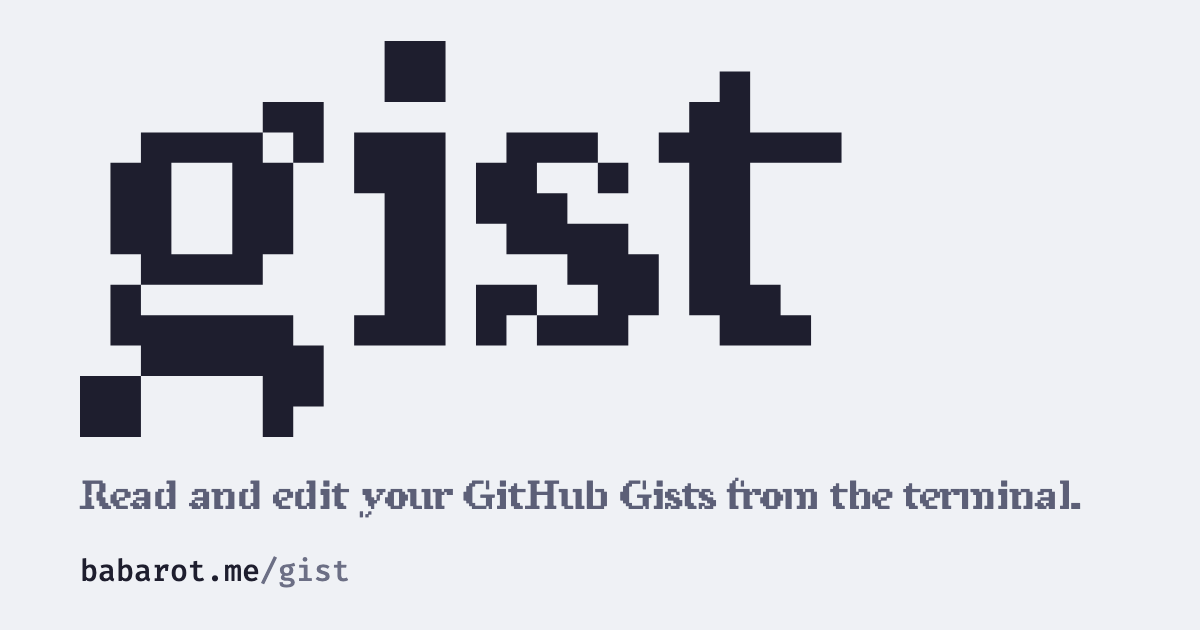
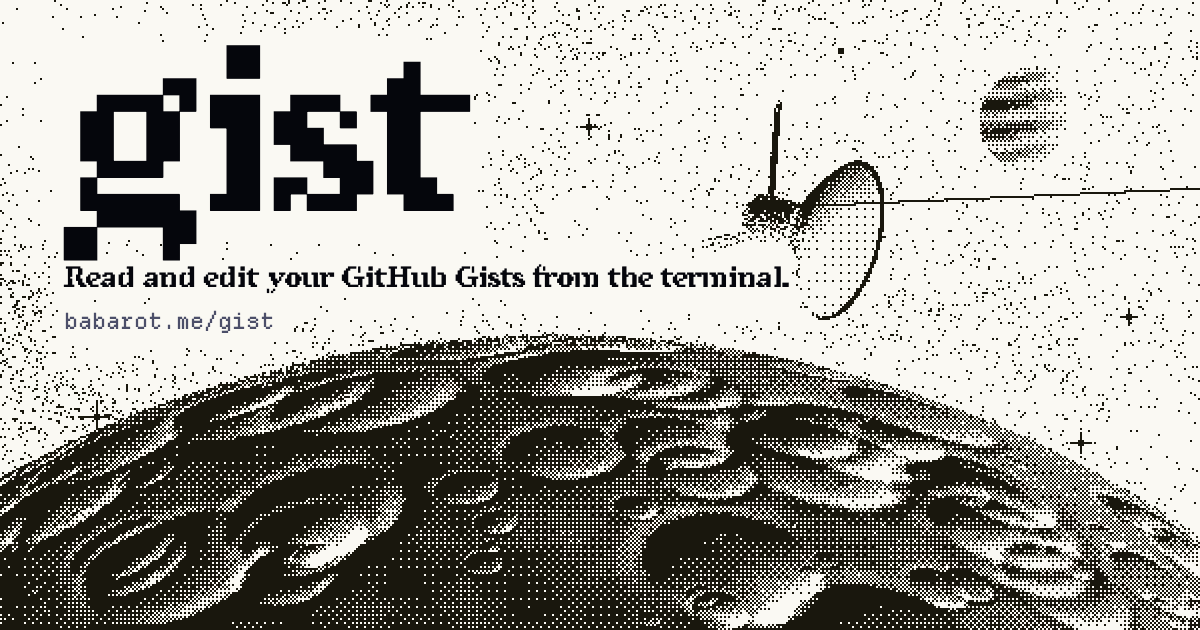
Draw the share image from the page's own moon and probe
scripts/ogimage/og.html now runs docs/space.js under the words, so that the
two stay the same picture. The URL is in Departure Mono, which leaves Fira Code
out of it.

diff --git a/scripts/ogimage/og.html b/scripts/ogimage/og.html
@@ -1,54 +1,35 @@
 <!DOCTYPE html>
 <!--
-  The share images of the page (og:image), 1200x630. scripts/ogimage.sh
-  takes a screenshot of each theme into docs/ogimage/THEME.png. ?v= picks
-  the theme: dark or light.
+  The share images of the page (og:image), 1200x630: its moon and probe, drawn
+  by docs/space.js, under its words. scripts/ogimage.sh takes a screenshot of
+  each theme into docs/ogimage/THEME.png. ?v= picks the theme: dark or light.
 -->
 <html lang="en">
 <head>
 <meta charset="UTF-8">
 <title>gist og:image</title>
-<link rel="stylesheet" href="https://fonts.googleapis.com/css2?family=Fira+Code:wght@500&display=swap">
 <style>
-@font-face { font-family: "Redaction 70"; font-weight: 700; src: url(https://cdn.jsdelivr.net/npm/@fontsource/redaction-70@5.3.0/files/redaction-70-latin-700-normal.woff2); }
-:root { --bg: #1e1e2e; --word: #e0e4f0; --text: #b0b8d1; --dim: #8888a4; --url: #e0e4f0; }
-:root[data-theme="light"] { --bg: #eff1f5; --word: #1e1e2e; --text: #5c5f77; --dim: #6c6f85; --url: #1e1e2e; }
+@font-face { font-family: "Redaction 70"; font-weight: 700; src: url(../../docs/fonts/redaction-70-700.woff2); }
+@font-face { font-family: "Departure Mono"; src: url(../../docs/fonts/departure-mono-400.woff2); }
+:root { --bg: #05060c; --word: #e6e8f2; --dim: #a4a7b8; }
+:root[data-theme="light"] { --bg: #eff1f5; --word: #05060c; --dim: #4c4f69; }
 html, body { margin: 0; width: 1200px; height: 630px; overflow: hidden; background: var(--bg); }
-.card { box-sizing: border-box; width: 1200px; height: 630px; padding: 0 80px; display: flex; flex-direction: column; justify-content: center; }
-p { margin: 34px 0 30px; color: var(--text); white-space: nowrap; font-family: "Redaction 70"; font-weight: 700; }
-.url { font: 500 30px "Fira Code", monospace; color: var(--dim); }
-.url b { font-weight: 500; color: var(--url); }
+#field { position: fixed; inset: 0; width: 1200px; height: 630px; }
+[data-theme="light"] #field { filter: invert(1); }
+header { position: relative; padding: 44px 64px; color: var(--word); }
+h1 { margin: 0; font: 700 236px/0.82 "Redaction 70", Georgia, serif; letter-spacing: -0.01em; }
+p { width: max-content; margin: 22px 0 10px; font: 700 29px/1.3 "Redaction 70", Georgia, serif; }
+nav { width: max-content; color: var(--dim); font: 22px "Departure Mono", ui-monospace, Menlo, monospace; }
 </style>
 </head>
 <body>
-<div class="card">
-  <canvas width="1040" height="400"></canvas>
+<canvas id="field"></canvas>
+<header>
+  <h1>gist</h1>
   <p>Read and edit your GitHub Gists from the terminal.</p>
-  <div class="url"><b>babarot.me</b>/gist</div>
-</div>
-<script>
-// The word is drawn on a canvas, to fit it by the ink of its letters and
-// not by the box of the font.
-document.documentElement.dataset.theme = new URLSearchParams(location.search).get('v') || 'dark';
-(async () => {
-  const font = size => `700 ${size}px "Redaction 70"`;
-  await document.fonts.load(font(200), 'gist Read');
-  await document.fonts.ready;
-  const style = getComputedStyle(document.documentElement);
-  const canvas = document.querySelector('canvas');
-  const ctx = canvas.getContext('2d');
-  ctx.font = font(200);
-  const m = ctx.measureText('gist');
-  const k = Math.min(1040 / (m.actualBoundingBoxLeft + m.actualBoundingBoxRight),
-    396 / (m.actualBoundingBoxAscent + m.actualBoundingBoxDescent));
-  canvas.height = Math.ceil((m.actualBoundingBoxAscent + m.actualBoundingBoxDescent) * k) + 4;
-  ctx.font = font(200 * k);
-  ctx.fillStyle = style.getPropertyValue('--word');
-  ctx.fillText('gist', m.actualBoundingBoxLeft * k, m.actualBoundingBoxAscent * k + 2);
-  const p = document.querySelector('p');
-  ctx.font = font(100);
-  p.style.fontSize = Math.min(1000 / ctx.measureText(p.textContent).width * 100, 48) + 'px';
-})();
-</script>
+  <nav>babarot.me/gist</nav>
+</header>
+<script>document.documentElement.dataset.theme = new URLSearchParams(location.search).get('v') || 'dark';</script>
+<script src="../../docs/space.js"></script>
 </body>
 </html>

diff --git a/docs/index.html b/docs/index.html
@@ -11,7 +11,7 @@
     <meta property="og:image" content="https://babarot.me/gist/ogimage/dark.png">
     <meta property="og:image:width" content="1200">
     <meta property="og:image:height" content="630">
-    <meta property="og:image:alt" content="gist, in large pixel letters, above the words: Read and edit your GitHub Gists from the terminal.">
+    <meta property="og:image:alt" content="gist, in large pixel letters, over a dithered moon and a space probe, with the words: Read and edit your GitHub Gists from the terminal.">
     <meta name="twitter:card" content="summary_large_image">
     <link rel="icon" href="favicon/green/favicon.ico" sizes="48x48">
     <link rel="icon" href="favicon/green/favicon.svg" type="image/svg+xml">
